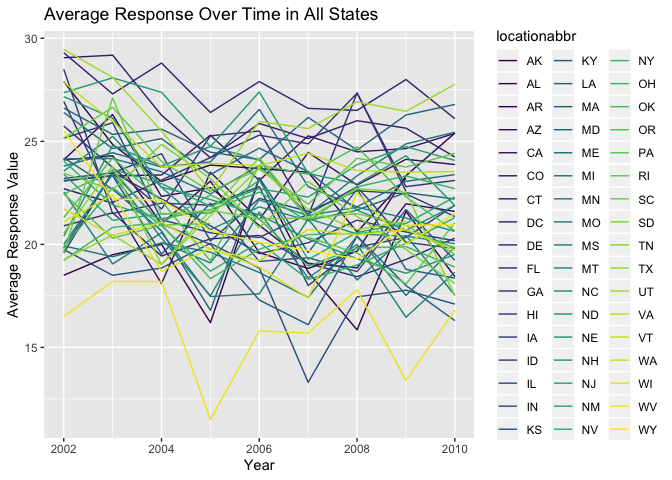
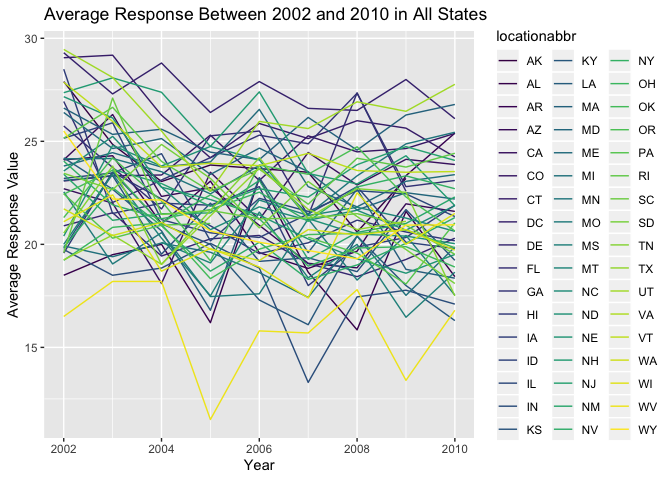
added more annotations and fixed the fig width of the aisles data

Changed region(s): [[0.2812, 0.0, 0.7188, 0.0625]]

diff --git a/p8105_hw3_hmb2161.md b/p8105_hw3_hmb2161.md
@@ -118,7 +118,12 @@ ordered_items
 ``` r
 #Created a ggplot of the items that were ordered more than 10,000 timesm the products are in alphabetical order
 ggplot(ordered_items, aes(x = number_item, y = aisle, color = aisle)) +
-         geom_point()
+         geom_point() +
+  labs(
+    title = "Number of Items Ordered per Aisle",
+    x = "Number of Items Ordered",
+    y = "Aisle Name"
+  )
 ```
 
 ![](p8105_hw3_hmb2161_files/figure-gfm/unnamed-chunk-4-1.png)<!-- -->
@@ -333,69 +338,84 @@ brfss_data
   - BRFSS data shows the health status of different locations across
     states in the US. The responses are recorded as excellent, very
     good, good, fair, or poor. There are rows in this dataset. The
-    median response value for the dataset is NA.
+    median response value for the dataset is
+NA.
 
 ## 2002:states with 7 or more locations
 
 ``` r
+## Created a new dataframe grouped by year and filtered for 2002, grouped by state abbreviation and counted the number of state abbreviations in the dataset, filtered for when the state had more than 7 locations
 first_year_data = 
   group_by(brfss_data, year) %>%
   filter(year == 2002) %>%
   group_by(locationabbr) %>%
   count(locationabbr) %>%
-  filter(n > 7) 
+  filter(n > 7) %>%
+  mutate(number_locations = n) %>%
+  select(-n)
 
 first_year_data
 ```
 
     ## # A tibble: 36 x 2
     ## # Groups:   locationabbr [36]
-    ##    locationabbr     n
-    ##    <chr>        <int>
-    ##  1 AZ              10
-    ##  2 CO              20
-    ##  3 CT              35
-    ##  4 DE              15
-    ##  5 FL              35
-    ##  6 GA              15
-    ##  7 HI              20
-    ##  8 ID              10
-    ##  9 IL              15
-    ## 10 IN              10
+    ##    locationabbr number_locations
+    ##    <chr>                   <int>
+    ##  1 AZ                         10
+    ##  2 CO                         20
+    ##  3 CT                         35
+    ##  4 DE                         15
+    ##  5 FL                         35
+    ##  6 GA                         15
+    ##  7 HI                         20
+    ##  8 ID                         10
+    ##  9 IL                         15
+    ## 10 IN                         10
     ## # … with 26 more rows
 
-## 2010: states with 7 or more locations
+  - The average number of locations a state had in 2002 was 20. \#\#
+    2010: states with 7 or more
+locations
+
+<!-- end list -->
 
 ``` r
+# Created a new dataframe grouped by year and filtered for 2010, grouped by state abbreviation and counted the number of state abbreviations in the dataset, filtered for when the state had more than 7 locations
 second_year_data = 
   group_by(brfss_data, year) %>%
   filter(year == 2010) %>%
   group_by(locationabbr) %>%
   count(locationabbr) %>%
-  filter(n > 7)
+  filter(n > 7) %>%
+  mutate(number_locations = n) %>%
+  select(-n)
 
 second_year_data
 ```
 
     ## # A tibble: 45 x 2
     ## # Groups:   locationabbr [45]
-    ##    locationabbr     n
-    ##    <chr>        <int>
-    ##  1 AL              15
-    ##  2 AR              15
-    ##  3 AZ              15
-    ##  4 CA              60
-    ##  5 CO              35
-    ##  6 CT              25
-    ##  7 DE              15
-    ##  8 FL             205
-    ##  9 GA              20
-    ## 10 HI              20
+    ##    locationabbr number_locations
+    ##    <chr>                   <int>
+    ##  1 AL                         15
+    ##  2 AR                         15
+    ##  3 AZ                         15
+    ##  4 CA                         60
+    ##  5 CO                         35
+    ##  6 CT                         25
+    ##  7 DE                         15
+    ##  8 FL                        205
+    ##  9 GA                         20
+    ## 10 HI                         20
     ## # … with 35 more rows
 
-\#\#Excellent responses across statements
+  - The average number of locations a state had in 2010 was 33.1111111.
+
+\#\#Excellent responses across
+statements
 
 ``` r
+##Filtered the BRFSS data for excellent responses, grouped by state abbreviation adn year, mutated to find the mean value per location, and grouped by state abbreviation again
 excellent_response = 
   select(brfss_data, response, year, locationabbr, data_value) %>%
   filter(response == "Excellent") %>%
@@ -427,13 +447,16 @@ excellent_response
 ## Spaghetti plot of above dataset
 
 ``` r
+# Created a ggplot of the excellent responses across the years by state abbreviations
 ggplot(excellent_response, aes(x = year, y = data_location)) + 
-  geom_line(aes(group = locationabbr, color = locationabbr)) + 
+  geom_line(aes(
+    group = locationabbr, 
+    color = locationabbr)) + 
   labs(
-    title = "Average Response Over Time in All States",
+    title = 
+        "Average Response Between 2002 and 2010 in All States",
     x = "Year",
-    y = "Average Response Value"
-  ) +
+    y = "Average Response Value") +
   scale_color_viridis(
     name = "locationabbr",
     discrete = TRUE
@@ -444,9 +467,11 @@ ggplot(excellent_response, aes(x = year, y = data_location)) +
 
 ![](p8105_hw3_hmb2161_files/figure-gfm/unnamed-chunk-12-1.png)<!-- -->
 
-\#\#Two panel plot showing the states in 2006 and 2010
+\#\#Two panel plot showing the states in 2006 and
+2010
 
 ``` r
+## Filtered the BRFSS data for the state of NY, grouped by locations and response by year. Created a mean of data value by location and filtered for either 2006 or 2010
 ny_state = 
   select(brfss_data, response, year, locationabbr, locationdesc, data_value) %>%
   filter(locationabbr == "NY") %>%
@@ -454,7 +479,8 @@ ny_state =
   mutate(data_location = mean(data_value)) %>%
   select(-data_value) %>%
   group_by(locationabbr) %>%
-  filter(xor(year == "2006", year == "2010")) %>%
+  filter(xor(year == "2006", 
+             year == "2010")) %>%
   distinct()
 
 ny_state
@@ -479,6 +505,7 @@ ny_state
 ## Plot of NY in 2006 and 2010
 
 ``` r
+#Created a ggplot of NY responses by location between 2006 and 2010. The colors in the bars represent the different locations and the bars themselves are the responses.
 ggplot(ny_state, aes(x = response, y = data_location, fill = locationdesc)) +
   geom_col() + 
   labs(
@@ -495,9 +522,11 @@ ggplot(ny_state, aes(x = response, y = data_location, fill = locationdesc)) +
 
 ![](p8105_hw3_hmb2161_files/figure-gfm/unnamed-chunk-14-1.png)<!-- -->
 
-\#Problem 3
+\#Problem
+3
 
 ``` r
+# Read in the accel data, cleaned names, pivoted longer, and grouped by day. Created a new variable for weekend vs weekday and pulled the prefix "activity_" out of the minute variable.
 accel_data = 
   read_csv(file = "/Users/hannahbowlin/Documents/Biostats Sem 1/Data Science 1/Data Science/Data Science 1 part a/Visualization and EDA/p8105_hw3_hmb2161/accel_data.csv") %>%
   janitor::clean_names() %>%
@@ -577,6 +606,7 @@ accel_day_data
 ## The trends apparent in the above table are that week 4 seems to have less activity than other weeks. The first week has a lot of activity compared to other weeks. Tuesday’s activity is generally less than other days and Wednesday’s is more than other days. Tuesday and Wednesday are fairly consistent across weeks in their activity levels.
 
 ``` r
+#Created a ggplot for accel day data where x is the week and y is the mean activity through the weeks. Each line represents a day of the week and reflects how activity changes in one day of the week over the 5 weeks.
 ggplot(accel_day_data, aes(x = week, y = mean_activity)) +
   geom_line(aes(group = day, color = day)) +
   labs(
